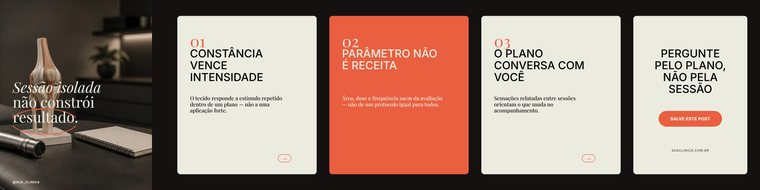
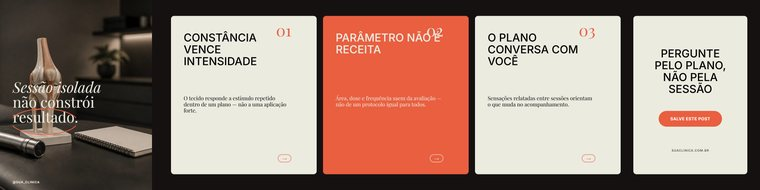
editorial-cards-continuos: numero no canto direito + 2 variacoes de miolo
Numero foi para o canto superior direito com data-inset=top dando o respiro.
Duas armadilhas no caminho, ambas registradas no tecnicas.md porque valem para
qualquer pack com travessia:

- A borda de leitura NAO e a borda do cartao. Ele sangra 1 col alem da emenda,
  entao a borda direita geometrica esta fora do slide visivel — alinhar por
  ela corta o conteudo. Margem util = ini+8.
- O numero precisa de faixa propria. Dividindo linha com a headline, colidem.

Variacoes (o pack tinha um exemplar so, e fita inteira do mesmo cartao cansa):
- ref-miolo-cartao-com-foto: imagem no topo do cartao com data-round para casar
  com o raio dele; texto na metade de baixo; cartao mais alto (2-13).
- ref-miolo-foto-de-palco: o slide inteiro e foto escura e o cartao pousa sobre
  ela, menor que o normal. Foto e FUNDO — clara demais apaga o cartao.

Fotos reusadas do clinical: exemplar demonstra composicao, gerar imagem so
para isso e custo sem retorno.

diff --git a/packs/editorial-cards-continuos/exemplos/ref-miolo-foto-de-palco.html b/packs/editorial-cards-continuos/exemplos/ref-miolo-foto-de-palco.html
@@ -1,0 +1,62 @@
+<!doctype html>
+<html>
+<head>
+  <meta charset="utf-8">
+  <meta name="hm-fonts" content="Inter:400,500,600,700|Playfair Display:400,500,400i,500i">
+</head>
+<body>
+<!-- VARIAÇÃO DE MIOLO: a foto é o PALCO, não conteúdo do cartão.
+     Em vez do fundo escuro chapado, o slide inteiro é uma foto escura e o
+     cartão pousa sobre ela — mesma travessia, mesma anatomia interna.
+     Uso: um respiro no meio da fita (a cada 3-4 cartões), ou o slide que
+     apresenta o ambiente/contexto antes de voltar aos itens.
+     A foto precisa ser ESCURA e calma: ela é fundo, e o cartão claro por
+     cima é que carrega a leitura. Foto clara aqui apaga o cartão. -->
+<main class="fita" data-pack="editorial-cards-continuos" data-template-name="Miolo com foto de palco" data-segment="exemplar">
+
+  <section class="slide" data-role="item" data-dark>
+    <img class="ds-photo" data-el-id="p1a" data-static data-image-type="generated"
+         src="foto-ambiente.jpg" style="grid-area: 1 / 1 / 13 / 13">
+  </section>
+  <section class="slide" data-role="item" data-dark>
+    <img class="ds-photo" data-el-id="p2a" data-static data-image-type="generated"
+         src="foto-ambiente.jpg" style="grid-area: 1 / 1 / 13 / 13">
+  </section>
+
+  <div class="fita-layer" data-split-ok>
+    <!-- cartão menor que o normal: sobre foto ele não precisa cobrir tudo,
+         e a margem maior deixa o palco aparecer. -->
+    <div class="ds-card" data-el-id="p1" data-half-left data-layer style="grid-area: 3 / 3 / 11 / 14"></div>
+    <span class="ds-number" data-el-id="p1n" data-half-left data-static data-layer data-face="serif"
+          data-size="lg" data-align="right" data-inset="top"
+          style="grid-area: 3 / 8 / 4 / 12">03</span>
+    <h2 class="ds-headline" data-weight="medium" data-el-id="p1h" data-half-left data-layer data-template-element
+        data-te-description="tese do cartão" data-te-min-chars="12" data-te-max-chars="34"
+        style="grid-area: 5 / 4 / 8 / 12">O ambiente também trata</h2>
+    <p class="ds-body" data-el-id="p1b" data-half-left data-layer data-face="serif"
+       data-template-element data-te-description="apoio"
+       data-te-min-chars="30" data-te-max-chars="120"
+       style="grid-area: 8 / 4 / 10 / 12">Silêncio, luz e tempo de sessão mudam a resposta tanto quanto o parâmetro.</p>
+    <a class="ds-stamp" data-el-id="p1s" data-half-left data-static data-layer data-glyph
+       style="grid-area: 9 / 9 / 11 / 12">&#8594;</a>
+
+    <!-- o cartão seguinte volta ao padrão sobre palco escuro: a foto é
+         exceção pontual, não vira o novo fundo da fita. -->
+    <div class="ds-card" data-el-id="p2" data-half-left data-layer style="grid-area: 2 / 15 / 12 / 26"></div>
+    <span class="ds-number" data-el-id="p2n" data-half-left data-static data-layer data-face="serif"
+          data-size="lg" data-align="right" data-inset="top"
+          style="grid-area: 2 / 20 / 3 / 24">04</span>
+    <h2 class="ds-headline" data-weight="medium" data-el-id="p2h" data-half-left data-layer data-template-element
+        data-te-description="tese do cartão" data-te-min-chars="12" data-te-max-chars="34"
+        style="grid-area: 4 / 16 / 7 / 24">Constância se constrói fora dali</h2>
+    <p class="ds-body" data-el-id="p2b" data-half-left data-layer data-face="serif"
+       data-template-element data-te-description="apoio"
+       data-te-min-chars="30" data-te-max-chars="120"
+       style="grid-area: 7 / 16 / 9 / 24">O que acontece entre as sessões decide o resultado tanto quanto a aplicação.</p>
+    <a class="ds-stamp" data-el-id="p2s" data-half-left data-static data-layer data-glyph
+       style="grid-area: 10 / 21 / 12 / 24">&#8594;</a>
+  </div>
+
+</main>
+</body>
+</html>

diff --git a/packs/editorial-cards-continuos/exemplos/ref-miolo-cartao-com-foto.html b/packs/editorial-cards-continuos/exemplos/ref-miolo-cartao-com-foto.html
@@ -1,0 +1,58 @@
+<!doctype html>
+<html>
+<head>
+  <meta charset="utf-8">
+  <meta name="hm-fonts" content="Inter:400,500,600,700|Playfair Display:400,500,400i,500i">
+</head>
+<body>
+<!-- VARIAÇÃO DE MIOLO: foto DENTRO do cartão, ocupando o topo.
+     Continua sendo o mesmo pack — cartão atravessa a emenda, número no canto
+     superior direito, seta no rodapé. O que muda é que a metade de cima do
+     cartão é imagem, e o texto ocupa a de baixo.
+     Uso: quando o item pede prova visual (o que é o aparelho, como é o
+     ambiente, o antes/depois de um detalhe). A foto tem o mesmo raio do
+     cartão (data-round) para ler como parte dele, não como recorte colado. -->
+<main class="fita" data-pack="editorial-cards-continuos" data-template-name="Miolo com foto no cartão" data-segment="exemplar">
+
+  <section class="slide" data-role="item" data-dark></section>
+  <section class="slide" data-role="item" data-dark></section>
+
+  <div class="fita-layer" data-split-ok>
+    <!-- CARTÃO com foto no topo: imagem linhas 2-6, texto 7-10, seta 11. -->
+    <div class="ds-card" data-el-id="f1" data-half-left data-layer style="grid-area: 2 / 3 / 13 / 14"></div>
+    <img class="ds-photo" data-el-id="f1p" data-half-left data-static data-layer data-round
+         data-image-type="generated" src="foto-detalhe.jpg" style="grid-area: 3 / 4 / 8 / 13">
+    <span class="ds-number" data-el-id="f1n" data-half-left data-static data-layer data-face="serif"
+          data-size="lg" data-align="right" data-inset="top"
+          style="grid-area: 2 / 9 / 3 / 13">01</span>
+    <h2 class="ds-headline" data-weight="medium" data-el-id="f1h" data-half-left data-layer data-template-element
+        data-te-description="tese do cartão" data-te-min-chars="12" data-te-max-chars="30"
+        style="grid-area: 8 / 4 / 10 / 13">A dose se lê na pele</h2>
+    <p class="ds-body" data-el-id="f1b" data-half-left data-layer data-face="serif"
+       data-template-element data-te-description="apoio"
+       data-te-min-chars="30" data-te-max-chars="110"
+       style="grid-area: 10 / 4 / 12 / 13">O que a área responde na sessão orienta o ajuste da seguinte.</p>
+    <a class="ds-stamp" data-el-id="f1s" data-half-left data-static data-layer data-glyph
+       style="grid-area: 12 / 10 / 13 / 13">&#8594;</a>
+
+    <!-- CARTÃO seguinte, só texto: a variação alterna, não se repete. -->
+    <div class="ds-card" data-el-id="f2" data-half-left data-layer data-variable="primary"
+         style="grid-area: 2 / 15 / 12 / 26"></div>
+    <span class="ds-number" data-el-id="f2n" data-half-left data-static data-layer data-face="serif"
+          data-size="lg" data-tone="paper" data-align="right" data-inset="top"
+          style="grid-area: 2 / 20 / 3 / 24">02</span>
+    <h2 class="ds-headline" data-weight="medium" data-el-id="f2h" data-half-left data-layer data-tone="paper"
+        data-template-element data-te-description="tese do cartão"
+        data-te-min-chars="12" data-te-max-chars="34"
+        style="grid-area: 4 / 16 / 7 / 24">Sem leitura não há ajuste</h2>
+    <p class="ds-body" data-el-id="f2b" data-half-left data-layer data-face="serif" data-tone="paper"
+       data-template-element data-te-description="apoio"
+       data-te-min-chars="30" data-te-max-chars="120"
+       style="grid-area: 7 / 16 / 9 / 24">Registrar a resposta de cada sessão é o que transforma aplicação em plano.</p>
+    <a class="ds-stamp" data-el-id="f2s" data-half-left data-static data-layer data-glyph data-tone="paper"
+       data-border="paper" style="grid-area: 10 / 21 / 12 / 24">&#8594;</a>
+  </div>
+
+</main>
+</body>
+</html>

diff --git a/packs/editorial-cards-continuos/exemplos/ref-estrutura-cartoes.html b/packs/editorial-cards-continuos/exemplos/ref-estrutura-cartoes.html
@@ -33,14 +33,15 @@
   <section class="slide" data-role="fechamento" data-dark></section>
 
   <div class="fita-layer" data-split-ok>
-    <!-- CARTÃO 01 · creme. Número no topo, conteúdo recuado, seta no rodapé.
+    <!-- CARTÃO 01 · creme. Número no canto superior DIREITO (data-inset=top dá
+         o respiro do topo), headline à esquerda a partir da linha 3, seta no rodapé.
          Colunas 14→26: começa dentro do slide 2 e termina no 3 (a sangria). -->
     <div class="ds-card" data-el-id="k1" data-half-left data-layer style="grid-area: 2 / 15 / 12 / 26"></div>
     <span class="ds-number" data-el-id="k1n" data-half-left data-static data-layer data-face="serif"
-          data-size="lg" style="grid-area: 3 / 16 / 4 / 20">01</span>
+          data-size="lg" data-align="right" data-inset="top" style="grid-area: 2 / 20 / 4 / 24">01</span>
     <h2 class="ds-headline" data-weight="medium" data-el-id="k1h" data-half-left data-layer data-template-element
         data-te-description="tese do cartão" data-te-min-chars="12" data-te-max-chars="34"
-        style="grid-area: 4 / 16 / 7 / 24">Constância vence intensidade</h2>
+        style="grid-area: 3 / 16 / 7 / 24">Constância vence intensidade</h2>
     <p class="ds-body" data-el-id="k1b" data-half-left data-layer data-face="serif"
        data-template-element data-te-description="apoio"
        data-te-min-chars="30" data-te-max-chars="120"
@@ -52,10 +53,10 @@
     <div class="ds-card" data-el-id="k2" data-half-left data-layer data-variable="primary"
          style="grid-area: 2 / 27 / 12 / 38"></div>
     <span class="ds-number" data-el-id="k2n" data-half-left data-static data-layer data-face="serif"
-          data-size="lg" data-tone="paper" style="grid-area: 3 / 28 / 4 / 32">02</span>
+          data-size="lg" data-tone="paper" data-align="right" data-inset="top" style="grid-area: 2 / 32 / 4 / 36">02</span>
     <h2 class="ds-headline" data-weight="medium" data-el-id="k2h" data-half-left data-layer data-tone="paper" data-template-element
         data-te-description="tese do cartão" data-te-min-chars="12" data-te-max-chars="34"
-        style="grid-area: 4 / 28 / 7 / 36">Parâmetro não é receita</h2>
+        style="grid-area: 3 / 28 / 7 / 36">Parâmetro não é receita</h2>
     <p class="ds-body" data-el-id="k2b" data-half-left data-layer data-face="serif" data-tone="paper"
        data-template-element data-te-description="apoio"
        data-te-min-chars="30" data-te-max-chars="120"
@@ -66,10 +67,10 @@
     <!-- CARTÃO 03 · branco -->
     <div class="ds-card" data-el-id="k3" data-half-left data-layer style="grid-area: 2 / 39 / 12 / 50"></div>
     <span class="ds-number" data-el-id="k3n" data-half-left data-static data-layer data-face="serif"
-          data-size="lg" style="grid-area: 3 / 40 / 4 / 44">03</span>
+          data-size="lg" data-align="right" data-inset="top" style="grid-area: 2 / 44 / 4 / 48">03</span>
     <h2 class="ds-headline" data-weight="medium" data-el-id="k3h" data-half-left data-layer data-template-element
         data-te-description="tese do cartão" data-te-min-chars="12" data-te-max-chars="34"
-        style="grid-area: 4 / 40 / 7 / 48">O plano conversa com você</h2>
+        style="grid-area: 3 / 40 / 7 / 48">O plano conversa com você</h2>
     <p class="ds-body" data-el-id="k3b" data-half-left data-layer data-face="serif"
        data-template-element data-te-description="apoio"
        data-te-min-chars="30" data-te-max-chars="120"

diff --git a/packs/editorial-cards-continuos/tecnicas.md b/packs/editorial-cards-continuos/tecnicas.md
@@ -10,11 +10,32 @@ curto é a assinatura, não limitação.
    slide e sangra uma faixa estreita para dentro do vizinho à esquerda; entre
    um e outro o fundo escuro aparece como uma barra. Quem passa o dedo vê o
    cartão anterior sair de cena enquanto o próximo já está entrando.
-2. **Número em serifa** no topo do cartão, ancorando a sequência (01, 02, 03).
-   **Discreto** — na referência ocupa 12% da largura do cartão; número gigante
-   descaracteriza o estilo.
+2. **Número em serifa no canto superior DIREITO** do cartão, ancorando a
+   sequência (01, 02, 03). **Discreto** — na referência ocupa 12% da largura;
+   número gigante descaracteriza o estilo. Leva `data-align="right"` e
+   `data-inset="top"` (o inset é o respiro do topo — sem ele o número gruda
+   na borda). **O número ocupa uma faixa só dele**: se a headline dividir a
+   linha com ele, as duas colidem — é o erro mais fácil de cometer aqui.
 3. **Capa com marcação manuscrita**: foto full-bleed escura, serifa em itálico
    misturada a romana, e uma elipse de caneta (SVG) envolvendo a palavra-chave.
+
+## Variações de miolo (os exemplares)
+
+O pack tem três exemplares e a fita real **mistura** os registros — repetir o
+mesmo cartão N vezes é a falha mais comum:
+
+| Exemplar | Quando usar |
+|---|---|
+| `ref-estrutura-cartoes.html` | o padrão: cartão só texto. É a maioria da fita |
+| `ref-miolo-cartao-com-foto.html` | item que pede prova visual (o aparelho, o detalhe, o antes/depois). Foto no TOPO do cartão, com `data-round` para casar com o raio dele; o texto fica na metade de baixo |
+| `ref-miolo-foto-de-palco.html` | respiro no meio da fita: em vez do fundo escuro chapado, o slide é uma foto escura e o cartão pousa sobre ela. A cada 3–4 cartões, nunca dois seguidos |
+
+Nas duas variações com foto o cartão é **mais alto** (linhas 2–13 em vez de
+2–12) ou **mais curto** (3–11 sobre palco), mas a travessia e o gap não mudam:
+a largura em colunas e o `data-half-left` são os mesmos.
+
+**Foto de palco tem que ser escura e calma.** Ela é fundo; o cartão claro por
+cima é que carrega a leitura. Foto clara ali apaga o cartão.
 
 ## Estrutura cartões (o exemplar de referência)
 
@@ -107,6 +128,13 @@ tente fazê-la "seguir" o texto.
 - **Corpo em 38px, peso 400**: o texto vive dentro do CARTÃO (990px), não do slide, então
   pede corpo maior do que a intuição sugere.
 - Capa: primeira linha em **itálico**, demais em romana.
+
+## A borda de leitura ≠ a borda do cartão
+
+O cartão sangra 1 coluna além da emenda, então sua borda direita geométrica
+está **fora** do slide visível. Texto e número alinhados por ela saem cortados.
+A margem de leitura é a borda do cartão **menos a sangria**: para um cartão que
+começa em `ini`, o conteúdo vai no máximo até `ini + 8`.
 
 ## Leis do estilo
 
